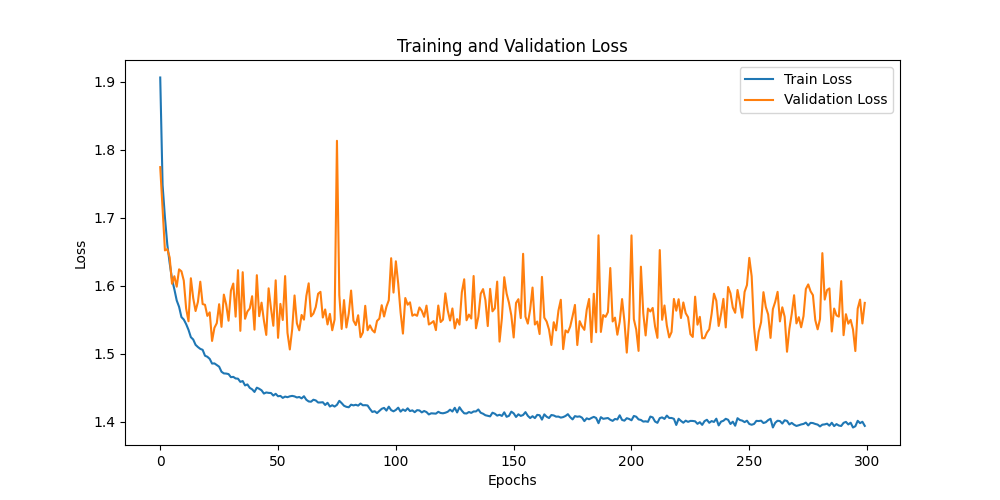
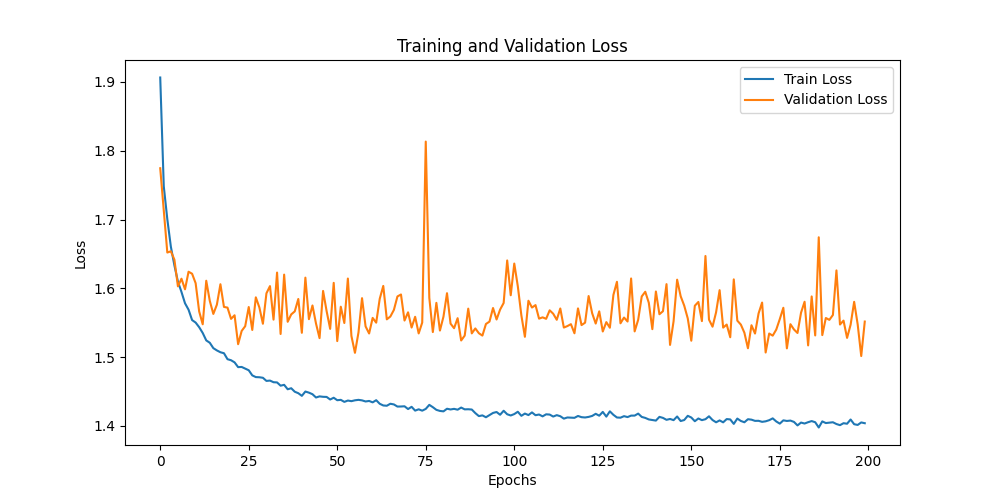
Ajustes para evaluate.py

diff --git a/src/exercise_05/evaluate.py b/src/exercise_05/evaluate.py
@@ -14,16 +14,17 @@ from model import MultiLayerPerceptron_05
 
 
 def get_device(force: str = "auto") -> torch.device:
-    """Return a torch.device based on the `force` option.
-
-    force: 'auto'|'cpu'|'cuda' - when 'auto' will pick cuda if available.
+    """
+    Devuelve el dispositivo según 'force':
+    - 'cpu'  -> CPU
+    - 'cuda' -> GPU
+    - 'auto' -> GPU si está disponible, si no CPU
     """
     force = force.lower()
     if force == "cpu":
         return torch.device("cpu")
     if force == "cuda":
         return torch.device("cuda")
-    # auto
     return torch.device("cuda" if torch.cuda.is_available() else "cpu")
 
 

diff --git a/src/exercise_05/train.py b/src/exercise_05/train.py
@@ -58,7 +58,7 @@ def train_model(output_folder: Path, device: torch.device):
     optimizer = optim.AdamW(model.parameters(), lr=lr) # AdamW es el algoritmo de optimización que se usará para actualizar los pesos del modelo durante el entrenamiento
 
     # Training loop with validation and saving best weights
-    num_epochs = 300 # Aumentamos de 100 a 400 porque el loss seguía bajando
+    num_epochs = 200 # Aumentamos de 100 a 200 porque el loss seguía bajando
     best_val_loss = float("inf")
     best_model_path = output_folder / "best_model.pth"
 
